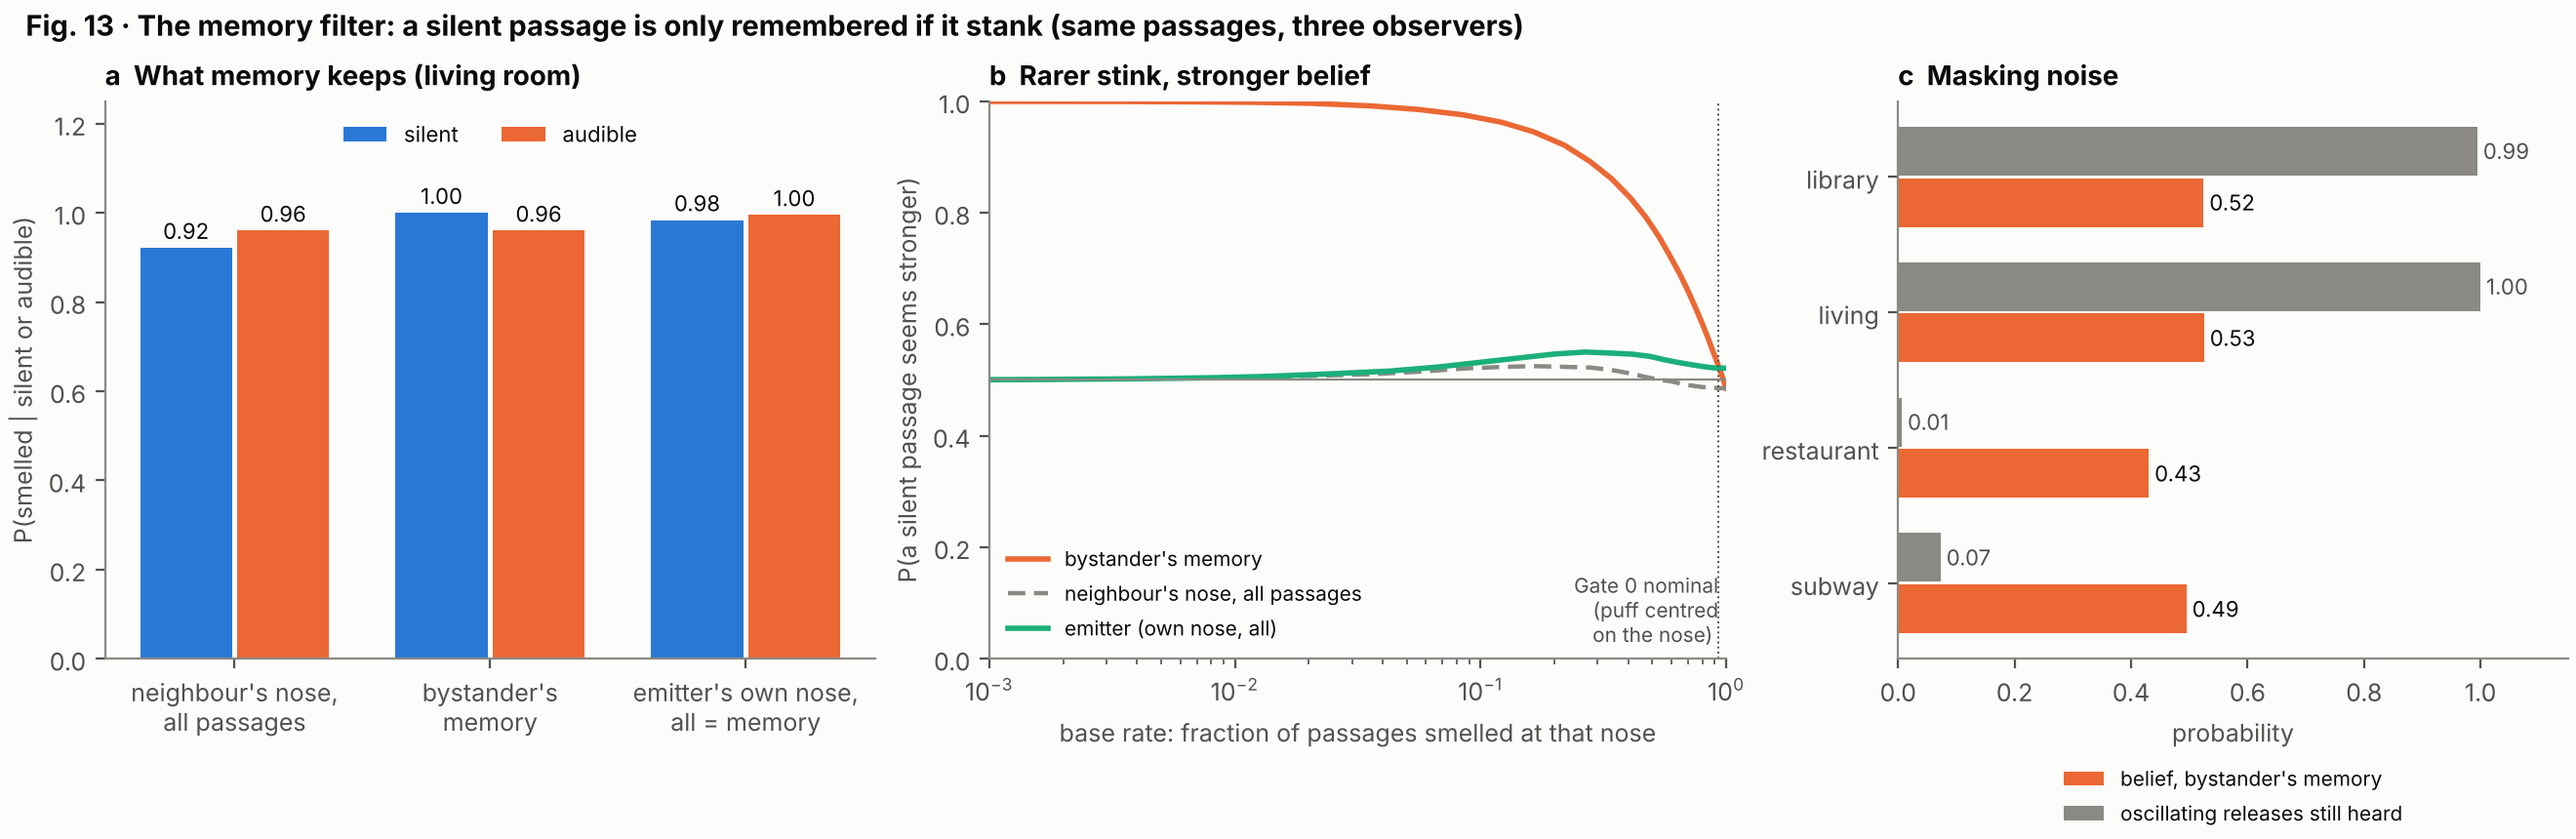
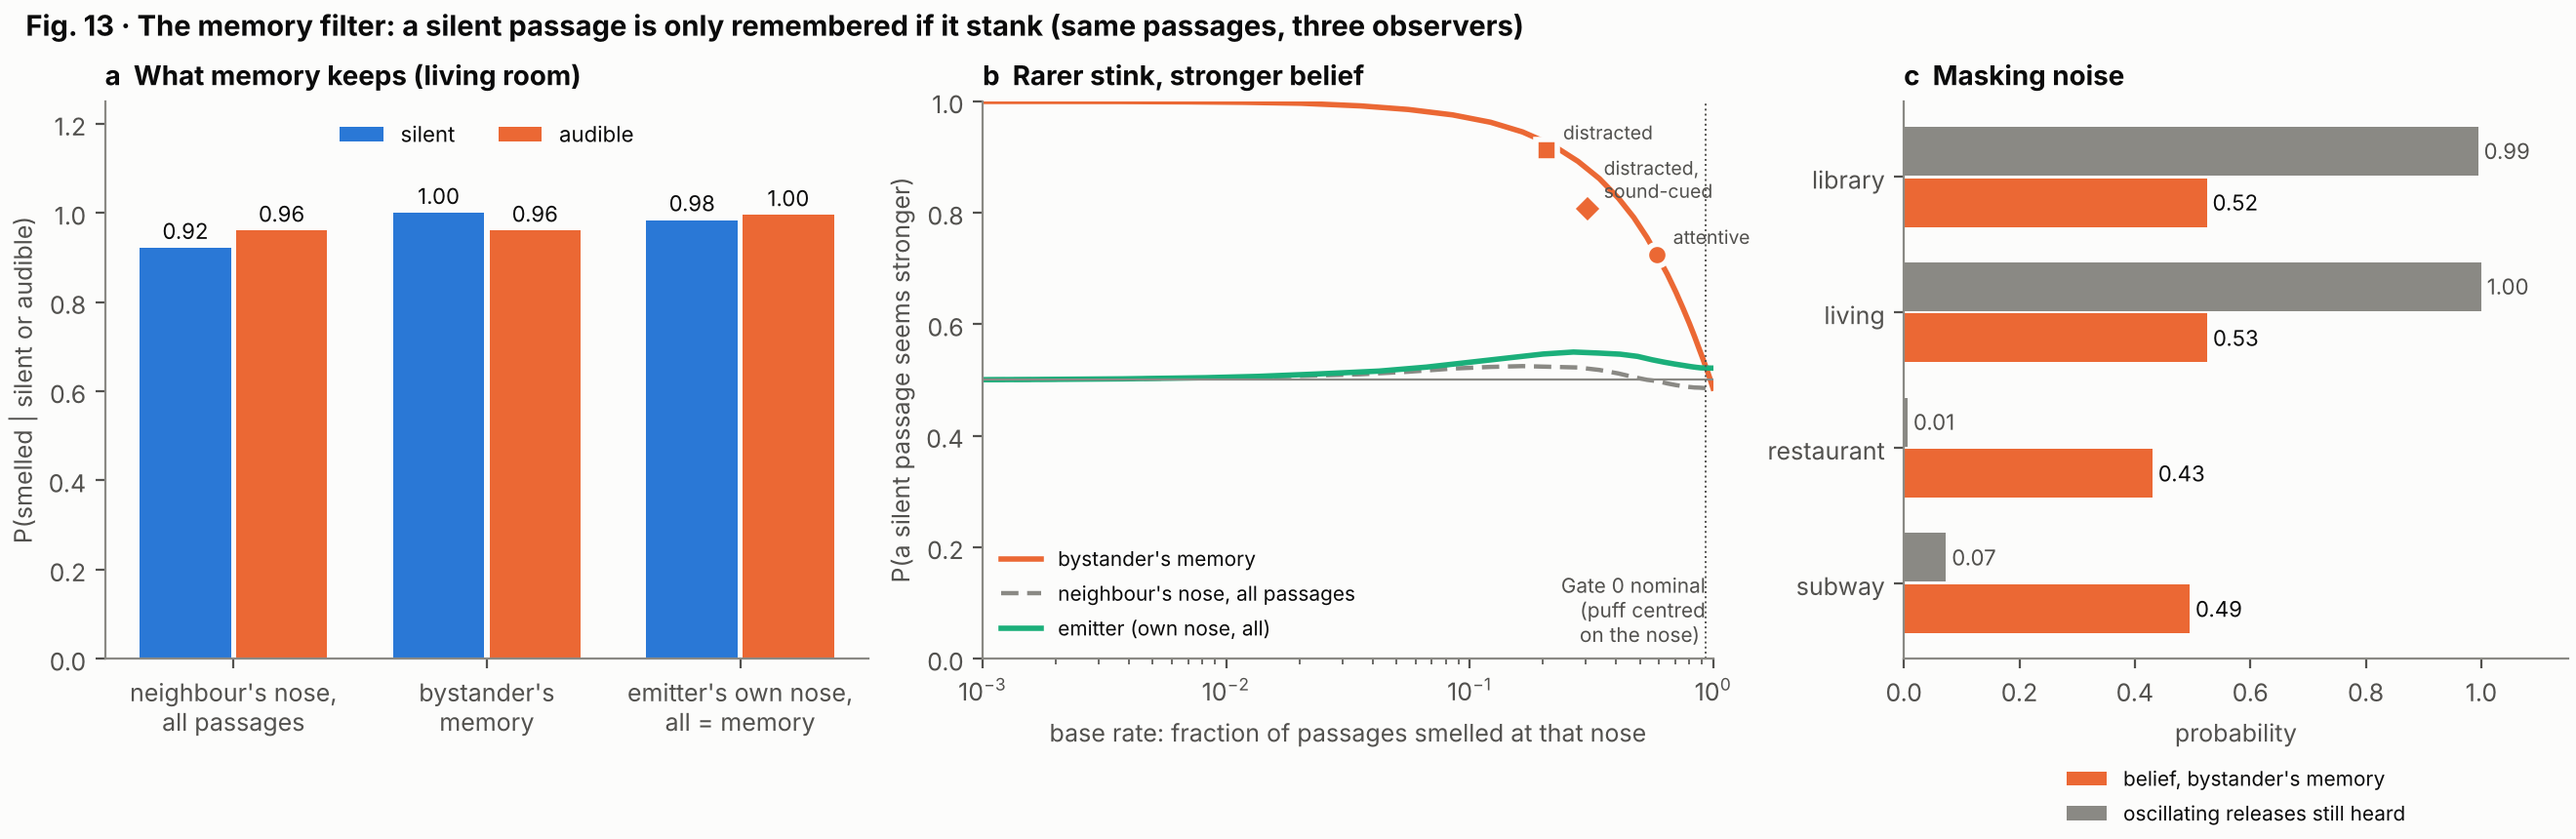
M4 posture option, M9 outline, observer points on Fig. 13b
- manikin/make_case/run_sofa: --recline (deg) reclines the releaser's upper
  body about the hip; 4.5 deg closes the back onto the backrest above 0.85 m.
  Recline 0 reproduces the original triangle set and probes.
- manuscript/preprint/outline.md: section skeleton with sources and gaps.
- Fig. 13b marks the literature observer models (uq/observer_ps.json).

Claude-Session: https://claude.ai/code/session_0131NedNevRvPP7dQji5Ca7Y

diff --git a/cfd/geometry/manikin.py b/cfd/geometry/manikin.py
@@ -74,12 +74,30 @@ def _shift(tris, dx=0.0, dy=0.0, dz=0.0):
     return [tuple(np.asarray(p) + d for p in tri) for tri in tris]
 
 
-def body(dy: float = 0.0):
-    """Seated manikin centred at lateral offset dy (m)."""
-    return _shift(_body(), dy=dy)
+HIP = np.array([-0.07, 0.0, SEAT_Z + 0.01])  # recline pivot: bottom of the torso axis
 
 
-def _body():
+def _recline(tris, deg):
+    """Rotate triangles backwards (top towards -x) by deg about the lateral axis through HIP."""
+    if not deg:
+        return tris
+    a = np.radians(deg)
+    R = np.array([[np.cos(a), 0.0, -np.sin(a)], [0.0, 1.0, 0.0], [np.sin(a), 0.0, np.cos(a)]])
+    return [tuple(HIP + R @ (np.asarray(p) - HIP) for p in tri) for tri in tris]
+
+
+def nose_tip(recline_deg: float = 0.0):
+    """Nose tip of a manikin reclined by recline_deg (lateral offset 0)."""
+    return _recline([(NOSE,)], recline_deg)[0][0]
+
+
+def body(dy: float = 0.0, recline_deg: float = 0.0):
+    """Seated manikin centred at lateral offset dy (m); the upper body (torso, head, arms) reclined by recline_deg
+    about the hip, so the back closes onto the backrest while the pelvis and legs stay put."""
+    return _shift(_body(recline_deg), dy=dy)
+
+
+def _body(recline_deg: float = 0.0):
     t = []
     t += cylinder((-0.07, 0, SEAT_Z + 0.01), (-0.07, 0, 1.05), 0.11, 0.17)       # torso (elliptic)
     t += ellipsoid((-0.07, 0, 1.05), (0.11, 0.19, 0.07))                          # shoulders cap
@@ -87,11 +105,13 @@ def _body():
     t += ellipsoid((-0.03, 0, 1.24), (0.10, 0.08, 0.12))                          # head
     t += ellipsoid((0.065, 0, 1.215), (0.02, 0.015, 0.025))                       # nose
     for s in (-1, 1):
+        t += cylinder((-0.07, s * 0.21, 1.00), (-0.04, s * 0.22, 0.73), 0.045)               # upper arm
+        t += cylinder((-0.04, s * 0.21, 0.73), (0.28, s * 0.14, 0.62), 0.04)                 # forearm
+    t = _recline(t, recline_deg)
+    for s in (-1, 1):
         t += cylinder((-0.10, s * 0.10, SEAT_Z + 0.08), (0.44, s * 0.10, SEAT_Z + 0.08), 0.08)  # thigh
         t += cylinder((0.45, s * 0.10, SEAT_Z + 0.06), (0.45, s * 0.10, 0.06), 0.055)        # lower leg
         t += box((0.38, s * 0.10 - 0.05, 0.0), (0.66, s * 0.10 + 0.05, 0.07))                # foot
-        t += cylinder((-0.07, s * 0.21, 1.00), (-0.04, s * 0.22, 0.73), 0.045)               # upper arm
-        t += cylinder((-0.04, s * 0.21, 0.73), (0.28, s * 0.14, 0.62), 0.04)                 # forearm
     return t
 
 
@@ -126,10 +146,10 @@ def write_stl(path, name, tris):
         fh.write(f"endsolid {name}\n")
 
 
-def write_scene(out: Path, dy_farter=-0.30, dy_neighbour=0.30):
-    """Sofa duet: farter.stl, neighbour.stl, sofa.stl."""
+def write_scene(out: Path, dy_farter=-0.30, dy_neighbour=0.30, recline_farter=0.0):
+    """Sofa duet: farter.stl, neighbour.stl, sofa.stl. recline_farter (deg) reclines the releaser only."""
     out.mkdir(parents=True, exist_ok=True)
-    write_stl(out / "farter.stl", "farter", body(dy_farter))
+    write_stl(out / "farter.stl", "farter", body(dy_farter, recline_farter))
     write_stl(out / "neighbour.stl", "neighbour", body(dy_neighbour))
     write_stl(out / "sofa.stl", "sofa", sofa())
 

diff --git a/cfd/cases/sofa/make_case.py b/cfd/cases/sofa/make_case.py
@@ -248,7 +248,8 @@ def fields(src, t_rel=T_REL, T=1.0):
     }
 
 
-def make(case: Path, mode: str, V: float, T: float, d: float, t_rel: float = T_REL, t_end: float = T_END):
+def make(case: Path, mode: str, V: float, T: float, d: float, t_rel: float = T_REL, t_end: float = T_END,
+         recline: float = 0.0):
     troom = T_ROOM + 273.15
     rho0 = 101325 * 0.02896 / (8.314 * troom)
     src = equivalent_source(V, T, d) if mode != "precursor" else None
@@ -256,7 +257,7 @@ def make(case: Path, mode: str, V: float, T: float, d: float, t_rel: float = T_R
     geo.mkdir(parents=True, exist_ok=True)
     sys.path.insert(0, str(ROOT / "cfd/geometry"))
     import manikin
-    manikin.write_scene(geo, DY_F, DY_N)
+    manikin.write_scene(geo, DY_F, DY_N, recline_farter=recline)
     write_emitter(geo / "emitter.stl", manikin)
     w(case / "system/blockMeshDict", block_mesh())
     w(case / "system/snappyHexMeshDict", snappy())
@@ -288,7 +289,9 @@ mixture
 """)
     w(case / "constant/momentumTransport", "simulationType RAS;\nRAS\n{\n    model kOmegaSST;\n    turbulence on;\n}\n")
     (case / "constant/fvModels").unlink(missing_ok=True)
-    nose_f, nose_n = f"({NOSE_X} {DY_F} {NOSE_Z})", f"({NOSE_X} {DY_N} {NOSE_Z})"
+    nf = manikin.nose_tip(recline)  # releaser's nose moves back when reclined; probe stays 2.5 cm in front of it
+    nose_f = f"({nf[0] + NOSE_X - manikin.NOSE[0]:.4f} {DY_F} {nf[2]:.4f})"
+    nose_n = f"({NOSE_X} {DY_N} {NOSE_Z})"
     # branch cases run in two stages (run_sofa.sh): 'release' up to stage1_end with a time step that resolves the
     # inlet pulse and its ramps, then 'drift' to t_end with maxDeltaT 0.1 and writeInterval 5
     if src:
@@ -387,12 +390,13 @@ if __name__ == "__main__":
     ap.add_argument("--d", type=float, default=None, help="effective orifice diameter (m)")
     ap.add_argument("--t-release", type=float, default=T_REL, help="release start time (s)")
     ap.add_argument("--t-end", type=float, default=T_END, help="end time (s)")
+    ap.add_argument("--recline", type=float, default=0.0, help="releaser upper-body recline about the hip (deg)")
     a = ap.parse_args()
     # defaults: silent = 92 mL over 2 s through 8 mm (u0 0.9 m/s, below acoustic onset);
     #           audible = 92 mL over 0.5 s through 2.4 mm (u0 41 m/s, above onset ~30 m/s)
     T = a.T if a.T is not None else (2.0 if a.mode != "audible" else 0.5)
     d = a.d if a.d is not None else (0.008 if a.mode != "audible" else 0.0024)
-    src = make(Path(a.case), a.mode, a.V, T, d, a.t_release, a.t_end)
+    src = make(Path(a.case), a.mode, a.V, T, d, a.t_release, a.t_end, a.recline)
     if src:
         src["stage1_end"] = min(a.t_end, math.ceil(a.t_release + T + 0.3))
     print("written", a.case, a.mode, {k: round(v, 5) for k, v in (src or {}).items()})

diff --git a/perception/run_selection.py b/perception/run_selection.py
@@ -8,6 +8,8 @@ log-normal sulfur multiplier (params sulfur_sigma_ln, independent of volume: Sua
 Observers: bystander (remembers heard or smelled), emitter (remembers all, classifies by oscillation), anosmic
 (remembers heard only). Reported: silent-vs-audible statistics over all passages (truth) and over remembered ones.
 
+Panel b marks the literature observer models from uq/observer_ps.json when that file exists (run uq/observer_ps.py
+first; it reuses simulate() from this module).
 Usage (repo root): python3 perception/run_selection.py -> figures/fig13_memory_filter.png, perception/selection.json
 """
 import json
@@ -131,6 +133,17 @@ def figure(base, rows, out):
     ax.plot([r["p_S_own"] for r in rows], [r["belief_emitter"] for r in rows], color=EMITTER_C, lw=2,
             label="emitter (own nose, all)")
     ax.axhline(0.5, color=MUTED, lw=0.8)
+    obs_file = ROOT / "uq/observer_ps.json"  # literature observer models (uq/observer_ps.py), if computed
+    if obs_file.exists():
+        obs = json.loads(obs_file.read_text())["observers"]
+        marks = [("attentive, Amoore thresholds", "o", "attentive"), ("distracted (everyday)", "s", "distracted"),
+                 ("distracted, sound cues attention", "D", "distracted,\nsound-cued")]
+        for key, mk, lab in marks:
+            if key in obs:
+                o = obs[key]
+                ax.plot(o["p_S"], o["belief_memory"], mk, ms=8, color=AUDIBLE_C, mec=SURFACE, mew=2, zorder=4)
+                ax.annotate(lab, (o["p_S"], o["belief_memory"]), xytext=(6, 4), textcoords="offset points",
+                            fontsize=7, color=INK2)
     ax.axvline(base["p_S_nb"], color=INK2, lw=0.7, ls=":")
     ax.text(base["p_S_nb"], 0.03, "Gate 0 nominal\n(puff centred\non the nose) ", fontsize=7.5, color=INK2,
             ha="right")

diff --git a/manuscript/preprint/outline.md b/manuscript/preprint/outline.md
@@ -1,0 +1,180 @@
+# Preprint outline (M9, skeleton)
+
+*2026-10-16 · status: skeleton for review. Every number below points to the file it comes from; nothing here is new
+analysis. Items marked **GAP** are missing before a full draft. Narrative branch (confirmed 2026-10-15): "Debunked
+(mostly): the nose was fooled by the ears", plus a regime map.*
+
+**Working title.** *The Silencer Conjecture: a fluid-dynamical, perceptual and selection-bias test of the "silent but
+deadly" belief*
+
+**One-sentence result.** As passages are actually emitted, a silent one is stronger at a neighbour's nose in about
+half of all pairs (P = 0.47). A bystander nevertheless remembers silent passages as worse in about 90 % of
+comparisons, because a silent passage only enters memory if it stank (Berkson selection).
+
+---
+
+## Abstract (~200 words, write last)
+
+- Belief: the less audible the release, the more offensive the odour ("Silencer conjecture"). It is documented across
+  languages; never tested mechanistically.
+- Chain:
+  1. lip-reed acoustics, which sets which releases are heard;
+  2. starting-jet/puff dispersion with validated constants and CFD of a seated pair;
+  3. breath-resolved perception;
+  4. a selection model of memory.
+- Results:
+  - **Physics, equal mass:** a silent release is more efficient per molecule (median R 1.35 at the neighbour). The
+    effect is mostly below the JND.
+  - **Physics, as emitted:** coin flip (P = 0.47).
+  - **Perception:** the median difference of 2.7 % is below the JND.
+  - **Memory:** belief 0.73–0.97 at plausible base rates.
+  - **CFD of a sofa:** geometry can reverse everything (the backrest chimney).
+- Conclusion: the belief is a memory artefact, not a measurement. An emitter, who notices every release, should not
+  share it.
+
+## 1. Introduction
+
+- **Hook** (PLAN §2): Chatur "Silencer" Ramalingam, *3 Idiots* (2009). **Paraphrase only**: no quotation of the
+  verse, and no image of the character. Cite the film.
+- **Epigraph option:** Grose 1811 (*fice*), public domain.
+- **The conjecture**, three meanings of "silent" (PLAN §4.1), and three comparison bases (NOTES 2026-10-16):
+  - (A) equal mass and composition (physics);
+  - (B) as emitted (population);
+  - (C) among *noticed* events (folk experience).
+- **Contributions:**
+  1. mechanistic chain sound → release → dispersion → nose → brain;
+  2. two transport theorems that bound what physics can do;
+  3. a selection (memory) model that produces the belief from a coin-flip truth;
+  4. a cross-cultural survey.
+- **Fig. 1** graphical abstract. **GAP:** not made. Use the sofa CFD scene with OAV iso-surfaces; manikins only.
+- **Fig. 2** mechanistic chain diagram. **GAP:** not made.
+
+## 2. Definitions and theory
+
+- **2.1 Deadliness.** The worst single inhalation: flow-weighted mean concentration per breath, I = k·OAV^n.
+  - Justification: Laing 1983/1985, Frasnelli 2006, Uchida & Mainen 2003, Kepecs 2006, Schauberger 2012
+    (NOTES "Definitions settled").
+  - Cumulative exposure is secondary.
+- **2.2 Theorem 1 (linear transport).** C = G * q.
+  - The time-integrated dose is invariant to release history.
+  - A slower release never has a higher peak (Young's inequality), for any Green's function G: any posture, room or
+    flow.
+- **2.3 Theorem 2.** Release-mode memory decays with time and distance; in a closed room, C → M / V_room.
+- **2.4 Where the theorems fail:** only momentum and buoyancy (non-linear).
+  - Near-field jet pre-dilution makes R > 1, bounded by the Silencer number Si = u₀/u_h.
+  - Routing changes can push either sign.
+  - This motivates the regime map.
+- **2.5 Theorem 3 (selection).** With N = H ∨ S:
+  - P(S | ¬H, N) = 1 and P(S | H, N) = P(S | H), so the gap is 1 − P(S | H);
+  - the emitter has N = 1, hence no bias (Berkson 1946; Snoep et al. 2014, Boyd formulas);
+  - verified numerically: `perception/test_selection.py`.
+
+## 3. Methods
+
+- **3.1 Source.** `params/params.yaml` is the single source of truth; every value is VERIFIED, DERIVED, PARTIAL or
+  ASSUMPTION.
+  - Passage volume 17–375 mL (Suarez 1997).
+  - Signed buoyancy (CO₂-rich flatus can be denser than air).
+  - Sulfur spread σ_ln = 1.1.
+  - **Table 1:** parameter table generated from params.yaml. **GAP:** script to render it.
+- **3.2 Acoustics** (`acoustics/m2_report.md`):
+  - lip-reed onset ½ρ(u₀/C_d)² > P_th, harmonic monopole, ISO 226 audibility, critical-ratio masking;
+  - onset u₀ ≈ 30 m/s (14–51); 79 % of releases are S1.
+  - Sphincter wording: internal (involuntary) vs external (voluntary). **GAP:** fix in the M2 report.
+- **3.3 Gate 0 analytic dispersion** (`gate0/gate0_report.md`):
+  - starting jet → puff, then Gaussian puff transport, then inhalation averaging;
+  - Monte Carlo over 20 000 pairs;
+  - own-nose transport from CFD trajectories (`u_own_eff`).
+- **3.4 CFD** (`cfd/validation/m3_report.md`, `cfd/cases/sofa/m4_report.md`):
+  - OpenFOAM 13, transient RANS k-ω SST, Boussinesq in internal-energy form.
+  - **Jet validation:** B_u 5.0, K_c 4.3–4.6, the known +25 % round-jet spreading anomaly, GCI ≤ 3.7 %.
+  - **CBL validation:** +42 % / ≈ +40 % / +56 % at 20 / 23 / 26 °C; trend −27 % vs −33 % measured.
+  - **Sofa duet:** 722 k cells; momentum-equivalent inlet; 30 s precursor, then 30 s branches.
+- **3.5 Perception** (`perception/m6_report.md`): breath sampling, warned breath-hold, Stevens n = 0.28,
+  adaptation, Weber C = 0.28.
+- **3.6 Observers and selection** (`perception/selection.py`, `uq/observer_ps.py`):
+  - population thresholds: Amoore & Hautala 1983, Wilby 1969;
+  - per-passage spread of 2 binary steps;
+  - distracted factor 26× (from Whisman 1978);
+  - sound-cued attention.
+- **3.7 UQ** (`uq/run_m7.py`): Gate 0 as surrogate (deviation from the plan); given-data Sobol indices; the JND as a
+  concentration ratio of 1.28.
+
+## 4. Results
+
+- **4.1 Who is heard** (Fig. 3). Most releases are silent (S1, 79 %). S2 is empty: an oscillating release is
+  audible in any quiet room.
+- **4.2 Validation** (Fig. 4, two panels: jet and CBL).
+- **4.3 Physics of the ratio** (Fig. 10a regime map; Gate 0 tables):
+  - equal mass: R = 1.35 (neighbour), 1.73 (own nose);
+  - as emitted: 0.92 (neighbour, P = 0.47), 1.15 (own nose, P = 0.56);
+  - denim: 0.31.
+- **4.4 What decides it** (Fig. 10b, Sobol):
+  - as emitted, volumes explain ~0.6 of the variance;
+  - at equal mass, mixing K explains 0.35;
+  - valve parameters explain < 0.5 % each.
+- **4.5 The sofa** (Figs 5–6; M4 report). The backrest chimney carries the silent release over the head; the jet
+  escapes and reaches the neighbour; breathing-zone R ≈ 10⁻¹⁰–10⁻¹⁴.
+  - **Posture sensitivity:** reclined variant (back closed onto the backrest above 0.85 m) running 2026-10-16.
+    **GAP:** results.
+- **4.6 Perception** (Figs 7, 11): median difference 2.7 % at the neighbour, below the JND. γ is an auxiliary
+  hypothesis (0–3 %, sign unknown).
+- **4.7 Composition counter-argument.** Suarez 1997 Table 3: no volume–sulfur-concentration link; sulfur mass rises
+  with volume. N₂ is blood-derived, not swallowed air.
+- **4.8 Memory** (Fig. 13 + observer table):
+  - truth 0.49; bystander belief 0.67–0.92 across observer models; emitter shows no bias.
+  - Masking is not a clean discriminator (loudness selection).
+  - **GAP:** mark the observer-model points on Fig. 13b.
+- **4.9 Headline in layers** (Fig. 10c): physics → nose (JND) → memory.
+
+## 5. Discussion
+
+- **Why the belief exists.** Berkson selection is the main route. Amplifiers: distinctiveness (Hamilton & Gifford
+  1976), availability (Tversky & Kahneman 1973), sampling (Fiedler 2000). Cultural transmission of the phrase
+  (Chapman 1967) is the competing route (Fig. 12, `culture/`).
+- **The emitter.**
+  - Notices every release, so there is no selection.
+  - Self-source effect: BODS gas items 2.51 vs 3.71 (Liuzza 2016). This lowers absolute unpleasantness only.
+  - Belief about the source shifts hedonics (Hold & Schleidt 1977), so expectation is the one route left.
+  - No study compares real own vs other flatus (null).
+- **Testable predictions** (no survey run):
+  1. emitters hold the belief less than bystanders;
+  2. anosmic people never notice silent passages;
+  3. masking effects are ambiguous.
+- **When a silent release really is worse:** bare, still air, own nose, within ~5 s (regime map corner).
+- **Limitations** (PLAN §16 plus):
+  - RANS, single realisation, 30 s window, CBL bias;
+  - no human measurements;
+  - p_S unmeasured;
+  - Sobol inputs dependent;
+  - Suarez 1997 and 1998 are one dataset.
+
+## 6. Conclusion
+
+One paragraph. Deadpan.
+
+## Figures: manuscript numbering → files
+
+| Fig. | Content | File | Status |
+|---|---|---|---|
+| 1 | Graphical abstract | — | **GAP** |
+| 2 | Mechanistic chain diagram | — | **GAP** |
+| 3 | Acoustic regimes | `figures/fig3_acoustic_regimes.png` | done |
+| 4 | Validation: jet + CBL | `figures/fig4_jet_validation.png`, `figures/fig4_cbl_validation.png` | merge into one figure |
+| 5 | Sofa: nose time series | `figures/fig5_sofa_duet_noses.png` | done; add posture variant |
+| 6 | Sofa: plane snapshots | `figures/fig6_sofa_duet_planes.png` | done |
+| 7 | Breath-hold | `figures/fig7_breath_hold.png` | done |
+| 8 | Conveyor belt (CBL streamlines) | `figures/fig_conveyor_belt.png` | renumber (plan's Fig. 8 elevator not done) |
+| 9 | — | — | plan's countermeasures figure dropped or **GAP** |
+| 10 | Regime map, Sobol, layered headline | `figures/fig10_regime_uq.png` | done |
+| 11 | γ (auxiliary) | `figures/fig11_gamma.png` | move to SI? |
+| 12 | Culture map | `figures/fig12_culture_map.png` | done |
+| 13 | Memory filter | `figures/fig13_memory_filter.png` | add observer points |
+| S1 | Adaptation | `figures/figS_adaptation.png` | done |
+| S2–S4 | Gate 0 ratio map, sensitivity, P(SBD) | `figures/gate0_*.png` | SI |
+
+## Open decisions for the author
+
+- Figure count: keep 12–13 main figures, or move Figs 7, 11 and 8 to the SI?
+- Plan Figs 8 (elevator whodunit) and 9 (countermeasures): drop, or run later as M5 scenarios?
+- Venue order (PLAN §1): preprint first, J. Immat. Sci. second.
